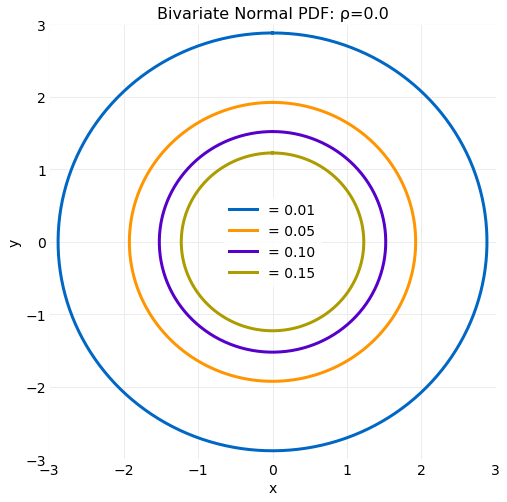
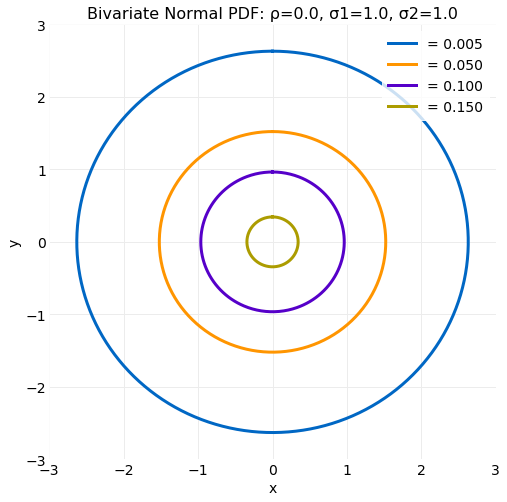
contour plots are working

diff --git a/hydrogen_notebooks/distributions/bivariate_normal_distribution.py b/hydrogen_notebooks/distributions/bivariate_normal_distribution.py
@@ -18,7 +18,7 @@ def pdf(μ1, μ2, σ1, σ2, ρ):
         y1 = (x1 - μ1) / σ1
         y2 = (x2 - μ2) / σ2
         c = 2 * numpy.pi * σ1 * σ2 * numpy.sqrt(1.0 - ρ**2)
-        ε = (y1**2 + y2**2 - ρ * y1 * y2) / (2.0 * (1.- ρ**2))
+        ε = (y1**2 + y2**2 - 2.0 * ρ * y1 * y2) / (2.0 * (1.0 - ρ**2))
         return numpy.exp(-ε) / c
     return f
 
@@ -55,7 +55,7 @@ def pdf_transform_y2_constant(μ1, μ2, σ1, σ2, ρ, c2):
     return f
 
 def pdf_contour_constant(μ1, μ2, σ1, σ2, ρ, v):
-    return numpy.sqrt(-2.0 * (1.0 - ρ**2) * numpy.log(numpy.pi * σ1 * σ2 * v * numpy.sqrt(1.0 - ρ**2)))
+    return numpy.sqrt(-2.0 * (1.0 - ρ**2) * numpy.log(2.0*numpy.pi * σ1 * σ2 * v * numpy.sqrt(1.0 - ρ**2)))
 
 def pdf_parametric_contour(μ1, μ2, σ1, σ2, ρ):
     def f(θ, c):
@@ -75,13 +75,52 @@ def parametric_contour_plot(μ1, μ2, σ1, σ2, ρ, contour_values, plot_name):
     axis.set_ylabel("y")
     axis.set_xlim([-3.0, 3.0])
     axis.set_ylim([-3.0, 3.0])
-    axis.set_title(f"Bivariate Normal PDF: ρ={ρ}")
+    axis.set_title(f"Bivariate Normal PDF: ρ={format(ρ, '2.1f')}, σ1={format(σ1, '2.1f')}, σ2={format(σ1, '2.1f')}")
 
     for n in range(len(c)):
         y1, y2 = f(θ, c[n])
-        axis.plot(y1, y2, label=f"= {format(contour_values[n], '2.2f')}")
+        axis.plot(y1, y2, label=f"= {format(contour_values[n], '2.3f')}")
 
     axis.legend()
+    config.save_post_asset(figure, "bivariate_normal_distribution", plot_name)
+
+def pdf_mesh(μ1, μ2, σ1, σ2, ρ):
+    npts = 500
+    x1 = numpy.linspace(-σ1*3.0, σ1*3.0, npts)
+    x2 = numpy.linspace(-σ2*3.0, σ2*3.0, npts)
+
+    f = pdf(μ1, μ2, σ1, σ2, ρ)
+    x1_grid, x2_grid = numpy.meshgrid(x1, x2)
+    f_x1_x2 = numpy.zeros((npts, npts))
+    for i in numpy.arange(npts):
+        for j in numpy.arange(npts):
+            f_x1_x2[i, j] = f(x1_grid[i,j], x2_grid[i,j])
+    return (x1_grid, x2_grid, f_x1_x2)
+
+def contour_plot(μ1, μ2, σ1, σ2, ρ, contour_values, plot_name):
+    x1_grid, x2_grid, f_x1_x2 = pdf_mesh(μ1, μ2, σ1, σ2, ρ)
+    figure, axis = pyplot.subplots(figsize=(8, 8))
+    axis.set_xlabel("x")
+    axis.set_ylabel("y")
+    axis.set_title(f"Bivariate Normal PDF: ρ={format(ρ, '2.1f')}, σ1={format(σ1, '2.1f')}, σ2={format(σ1, '2.1f')}")
+    contour = axis.contour(x1_grid, x2_grid, f_x1_x2, contour_values, cmap=config.contour_color_map)
+    axis.clabel(contour, contour.levels[::2], fmt="%.3f", inline=True, fontsize=15)
+    config.save_post_asset(figure, "bivariate_normal_distribution", plot_name)
+
+def surface_plot(μ1, μ2, σ1, σ2, ρ, zticks, plot_name):
+    x1_grid, x2_grid, f_x1_x2 = pdf_mesh(μ1, μ2, σ1, σ2, ρ)
+    figure, axis = pyplot.subplots(figsize=(10, 10))
+    axis.set_title(f"Bivariate Normal PDF: ρ={ρ}")
+    axis.set_yticklabels([])
+    axis.set_xticklabels([])
+
+    axis_z = figure.add_subplot(111, projection='3d')
+    axis_z.set_ylabel('y')
+    axis_z.set_xlabel('x')
+    axis_z.set_zticks(zticks)
+    axis_z.set_xticks([-σ1*3.0, -σ1*2.0, -σ1, 0.0, σ1, σ1*2.0, σ1*3.0])
+    axis_z.set_yticks([-σ2*3.0, -σ2*2.0, -σ2, 0.0, σ2, σ2*2.0, σ2*3.0])
+    axis_z.plot_wireframe(x1_grid, x2_grid, f_x1_x2, rstride=25, cstride=25)
     config.save_post_asset(figure, "bivariate_normal_distribution", plot_name)
 
 # %%
@@ -92,44 +131,15 @@ def parametric_contour_plot(μ1, μ2, σ1, σ2, ρ, contour_values, plot_name):
 μ2 = 0.0
 ρ = 0.5
 
-npts = 500
-x1 = numpy.linspace(-σ1*3.0, σ1*3.0, npts)
-x2 = numpy.linspace(-σ2*3.0, σ2*3.0, npts)
+# %%
+
+surface_plot(μ1, μ2, σ1, σ2, ρ, [0.005, 0.05, 0.1, 0.15], "bivariate_pdf_surface_correlation_0.5")
 
 # %%
 
-pdf = bivariate_normal_pdf(μ1, μ2, σ1, σ2, ρ)
-x1_grid, y1_grid = numpy.meshgrid(x1, x2)
-f_x1_x2 = numpy.zeros((npts, npts))
-for i in numpy.arange(npts):
-    for j in numpy.arange(npts):
-        f_x1_x2[i, j] = pdf(x1_grid[i,j], y1_grid[i,j])
-
-# %%
-
-figure, axis = pyplot.subplots(figsize=(8, 8))
-axis.set_xlabel("x")
-axis.set_ylabel("y")
-axis.set_title(f"Bivariate Normal PDF: ρ={ρ}")
-contour = axis.contour(x1_grid, y1_grid, f_x1_x2, [0.005, 0.025, 0.05, 0.075, 0.1, 0.125, 0.15], cmap=config.contour_color_map)
-axis.clabel(contour, contour.levels[::2], fmt="%.3f", inline=True, fontsize=15)
-config.save_post_asset(figure, "bivariate_normal_distribution", "bivariate_pdf_contours")
-
-# %%
-
-figure, axis = pyplot.subplots(figsize=(10, 10))
-axis.set_title(f"Bivariate Normal PDF: ρ={ρ}")
-axis.set_yticklabels([])
-axis.set_xticklabels([])
-
-axis_z = figure.add_subplot(111, projection='3d')
-axis_z.set_ylabel('y')
-axis_z.set_xlabel('x')
-axis_z.set_zticks([0.0, 0.05, 0.1, 0.15])
-axis_z.set_xticks([-σ1*3.0, -σ1*2.0, -σ1, 0.0, σ1, σ1*2.0, σ1*3.0])
-axis_z.set_yticks([-σ2*3.0, -σ2*2.0, -σ2, 0.0, σ2, σ2*2.0, σ2*3.0])
-axis_z.plot_wireframe(x1_grid, y1_grid, f_x1_x2, rstride=25, cstride=25)
-config.save_post_asset(figure, "bivariate_normal_distribution", "bivariate_pdf_surface")
+contour_plot(μ1, μ2, σ1, σ2, ρ,
+             [0.005, 0.025, 0.05, 0.075, 0.1, 0.125, 0.15],
+             "bivariate_pdf_contours_correlation_0.5")
 
 # %%
 
@@ -138,9 +148,18 @@ config.save_post_asset(figure, "bivariate_normal_distribution", "bivariate_pdf_s
 μ1 = 0.0
 μ2 = 0.0
 ρ = 0.0
-contour_values = [0.005, 0.05, 0.1, 0.15]
 
-parametric_contour_plot(μ1, μ2, σ1, σ2, ρ, contour_values, 'bivariate_pdf_parameterized_contour_correlation_0.0')
+# %%
+
+contour_plot(μ1, μ2, σ1, σ2, ρ,
+             [0.005, 0.025, 0.05, 0.075, 0.1, 0.125, 0.15],
+             "bivariate_pdf_contours_correlation_0.0")
+
+# %%
+
+parametric_contour_plot(μ1, μ2, σ1, σ2, ρ,
+                        [0.005, 0.05, 0.1, 0.15],
+                        'bivariate_pdf_parameterized_contour_correlation_0.0')
 
 # %%
 
@@ -148,7 +167,18 @@ parametric_contour_plot(μ1, μ2, σ1, σ2, ρ, contour_values, 'bivariate_pdf_p
 σ2 = 1.0
 μ1 = 0.0
 μ2 = 0.0
-ρ = 0.9
-contour_values = [0.005, 0.05, 0.1, 0.15]
+ρ = 0.5
 
-parametric_contour_plot(μ1, μ2, σ1, σ2, ρ, contour_values, 'bivariate_pdf_parameterized_contour_correlation_0.5')
+# %%
+
+contour_plot(μ1, μ2, σ1, σ2, ρ,
+             [0.005, 0.025, 0.05, 0.075, 0.1, 0.125, 0.15],
+             "bivariate_pdf_contours_correlation_0.0")
+
+# %%
+
+parametric_contour_plot(μ1, μ2, σ1, σ2, ρ,
+                        [0.005, 0.05, 0.1, 0.15],
+                        'bivariate_pdf_parameterized_contour_correlation_0.5')
+
+# %%
